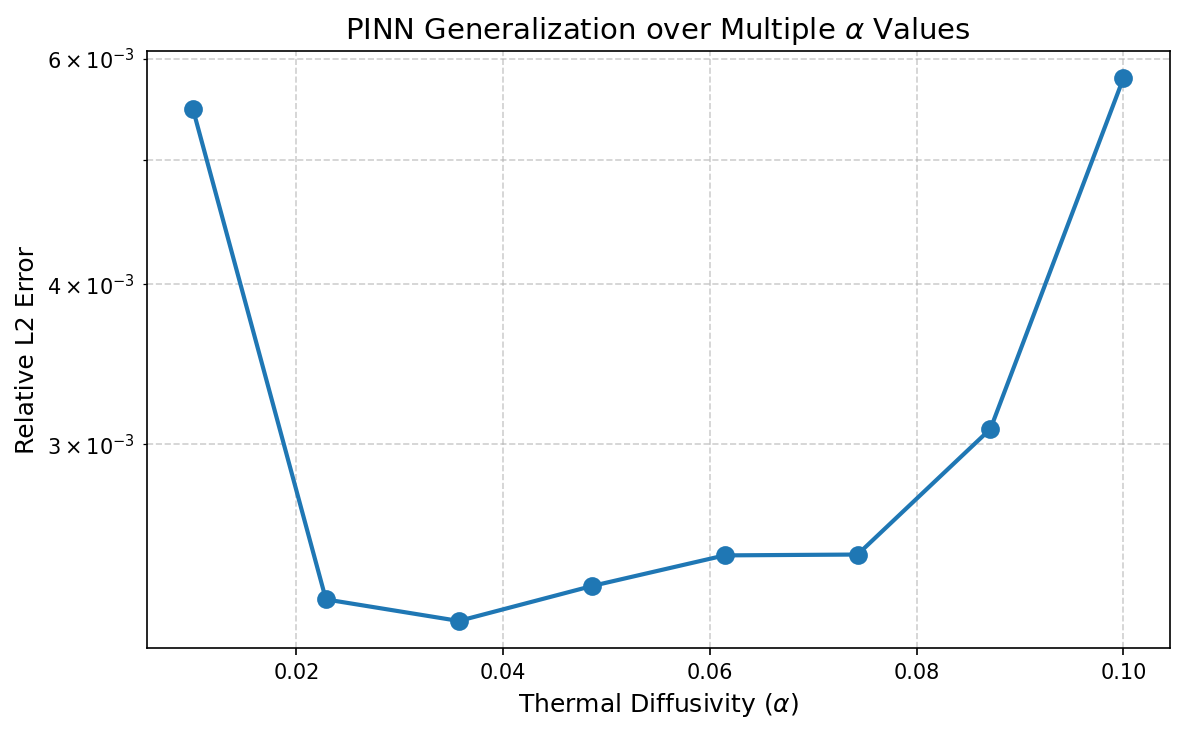
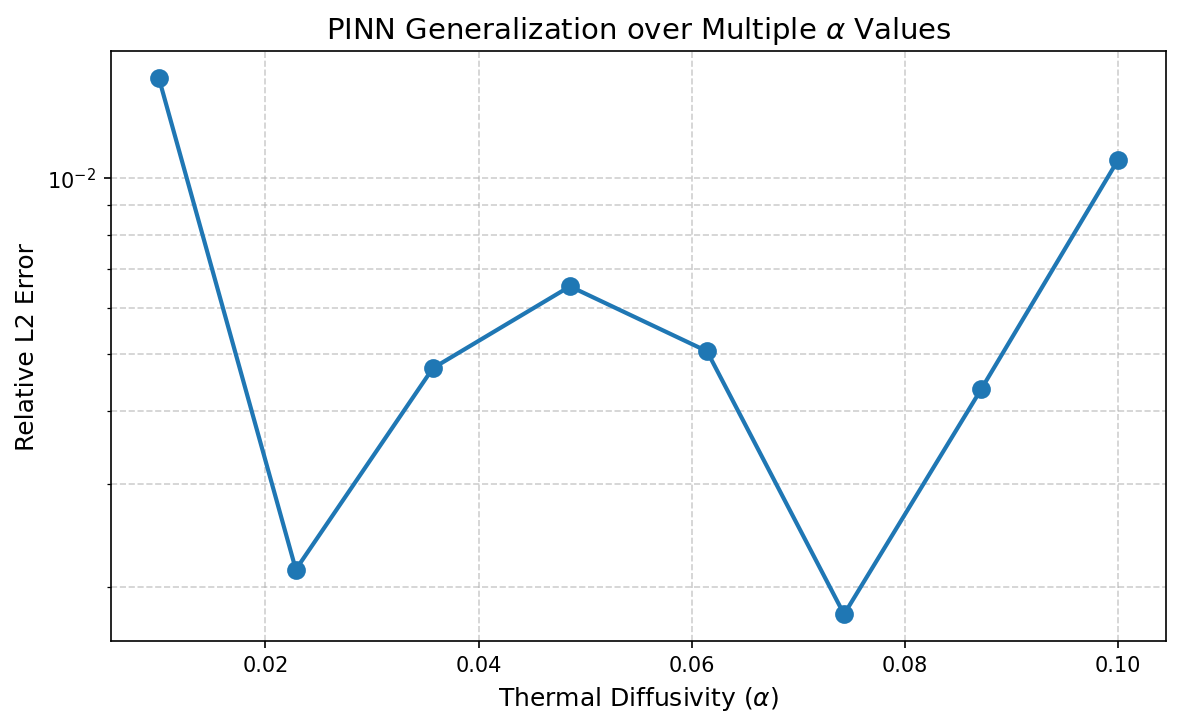
main

diff --git a/2026.3.1/multi_alpha_validation.py b/2026.3.1/multi_alpha_validation.py
@@ -30,6 +30,7 @@ alpha_max = 0.1         # α 采样上界
 alpha_test = 0.05       # 验证时使用的固定 α 值
 epochs = 10000          # 训练轮数
 learning_rate = 1e-3    # Adam 学习率
+w_data = 1
 
 # ===================== 采样配置点 =====================
 # 内部点: 需要 requires_grad=True (x, t), 因为 PDE 残差需要对它们求导
@@ -53,6 +54,15 @@ x_c = torch.ones(N_bc, 1)
 t_c = torch.rand(N_bc, 1)
 alpha_c = alpha_min + (alpha_max - alpha_min) * torch.rand(N_bc, 1)
 
+# ===================== 观测数据采样 =====================
+N_data = 200        #域内观测点数量（远少于配置点 N_f=1000）
+
+x_data = torch.rand(N_data, 1)
+t_data = torch.rand(N_data, 1)
+alpha_data = alpha_min + (alpha_max - alpha_min) * torch.rand(N_data, 1)
+
+# "观测值" — 由解析解生成（模拟 COMSOL 或实验数据）
+T_data_target =   torch.sin(math.pi * x_data) * torch.exp(-alpha_data * (math.pi**2) * t_data)
 
 # ===================== 网络定义 =====================
 class SimpleMLP(nn.Module):
@@ -137,6 +147,11 @@ for epoch in range(epochs):
         model(torch.cat([x_ic, t_ic, alpha_ic], dim=1)),
         torch.sin(x_ic * math.pi))
 
+    # 数据损失：网络预测 vs "观测值"
+    loss_data = F.mse_loss(
+        model(torch.cat([x_data, t_data, alpha_data,], dim=1)),
+        T_data_target)
+    
     # BC 损失: T(0, t, α) = 0, T(1, t, α) = 0
     T_left = model(torch.cat([x_b, t_b, alpha_b], dim=1))
     T_right = model(torch.cat([x_c, t_c, alpha_c], dim=1))
@@ -144,14 +159,14 @@ for epoch in range(epochs):
                + F.mse_loss(T_right, torch.zeros_like(T_right)))
 
     # 等权联合训练
-    loss_total = loss_pde + loss_ic + loss_bc
+    loss_total = loss_pde + loss_ic + loss_bc + w_data * loss_data
 
     loss_total.backward()
     optimizer.step()
 
     if (epoch + 1) % 100 == 0:
         print(f"Epoch [{epoch+1}/{epochs}], Loss Total: {loss_total.item():.6f} "
-              f"(PDE: {loss_pde.item():.6f}, IC: {loss_ic.item():.6f}, BC: {loss_bc.item():.6f})")
+              f"(PDE: {loss_pde.item():.6f}, IC: {loss_ic.item():.6f}, BC: {loss_bc.item():.6f}), Data: {loss_data.item():.6f}")
 print("训练完成！")
 
 

diff --git a/Note.md b/Note.md
@@ -119,3 +119,39 @@
 | 3 层 × 64 神经元（参数化 α） | 10000 | 6.45e-03 |
 
 - **经验**：PINNs 中通常"加深比加宽更有效"，深层网络能表达更复杂的非线性映射。
+
+### 13. 多 α 泛化验证实验
+**日期**: 2026.3.1
+
+- **目的**：验证参数化 PINN 在整个 α 区间 `[0.01, 0.1]` 上的预测精度，而非仅在单个 α 点上测试。
+- **方法**：选取 8 个均匀分布的 α 值，逐一用 `torch.full_like` 构建常数张量输入网络，与解析解对比计算相对 L2 误差。
+- **结果**：误差曲线呈 **U 型分布**——端点（α=0.01, α=0.1）误差约 5.5e-03，中间区域最低约 1.5e-03。
+- **物理解释**：端点更差不是因为采样不均（`torch.rand` 是均匀分布），而是因为解的**物理行为差异**：
+  - α=0.01（小扩散系数）：温度衰减极慢，`exp(-0.01·π²·t)` 在 t=1 时仍有 ~0.91
+  - α=0.1（大扩散系数）：温度衰减极快，`exp(-0.1·π²·t)` 在 t=1 时仅剩 ~0.37
+  - 网络需要用同一组权重**同时拟合**两种截然不同的衰减行为，参数空间两端矛盾最尖锐
+- **API 笔记**：`torch.full_like(tensor, value)` 创建与 `tensor` 同 shape/dtype 的常数张量，适用于验证时固定某个参数。
+
+### 14. 引入数据损失 L_data — 从纯物理到混合驱动
+**日期**: 2026.3.2
+
+#### 14.1 概念
+- 在域内随机采样 `N_data=200` 个"观测点"，用解析解生成伪观测数据（模拟 COMSOL 仿真结果）。
+- 总损失变为四项：`loss_total = loss_pde + loss_ic + loss_bc + w_data * loss_data`
+- 观测数据**必须用 `torch` 数学函数**（`torch.sin`, `torch.exp`）生成，因为采样坐标是 `torch.Tensor`。
+
+#### 14.2 权重调参实验
+
+| 实验配置 | α=0.01 误差 | 中间区域最佳 | α=0.10 误差 |
+|---|---|---|---|
+| 纯物理 (10k轮) | 5.5e-03 | 1.5e-03 | 5.8e-03 |
+| + L_data, **w=10** (5k轮) | 2.2e-02 | 3.9e-02 | 3.6e-02 |
+| + L_data, **w=1** (10k轮) | 1.5e-02 | 1.8e-03 | 1.1e-02 |
+
+#### 14.3 核心教训
+1. **w_data 过大 + 训练不足 = 灾难**：w=10 时，数据项主导梯度方向，网络过拟合 200 个数据点而牺牲 PDE 物理一致性。
+2. **简单问题中 L_data 边际收益低**：对于有精确解析解的 1D 热传导方程，PDE 本身已是"完美约束"（1000 个 PDE 配置点每个都是精确物理法则），额外 200 个数据点不比物理约束更强。
+3. **L_data 真正价值场景**：PDE 不完备、高度非线性、或物理方程难以建模的复杂问题（如 LIPSS 中激光-物质相互作用）。
+
+#### 14.4 待探索
+- **每轮重采样**（Resampling）：当前所有训练点在脚本开头固定采样一次，10000 轮训练始终使用同一批点。改为每轮重新采样可极大扩展网络"见过"的域覆盖范围。
